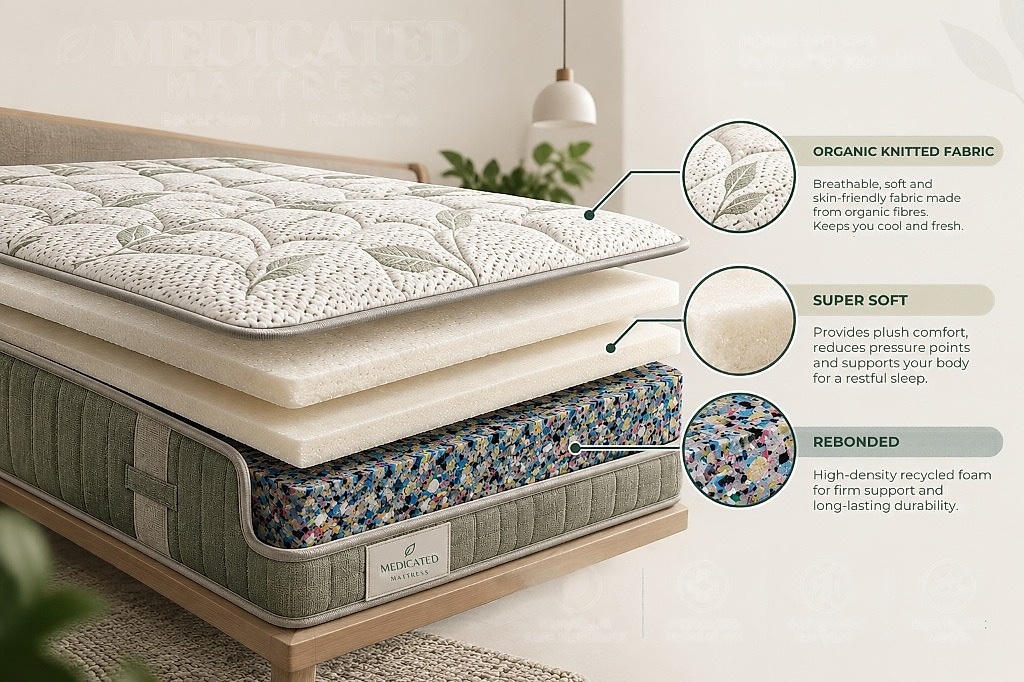
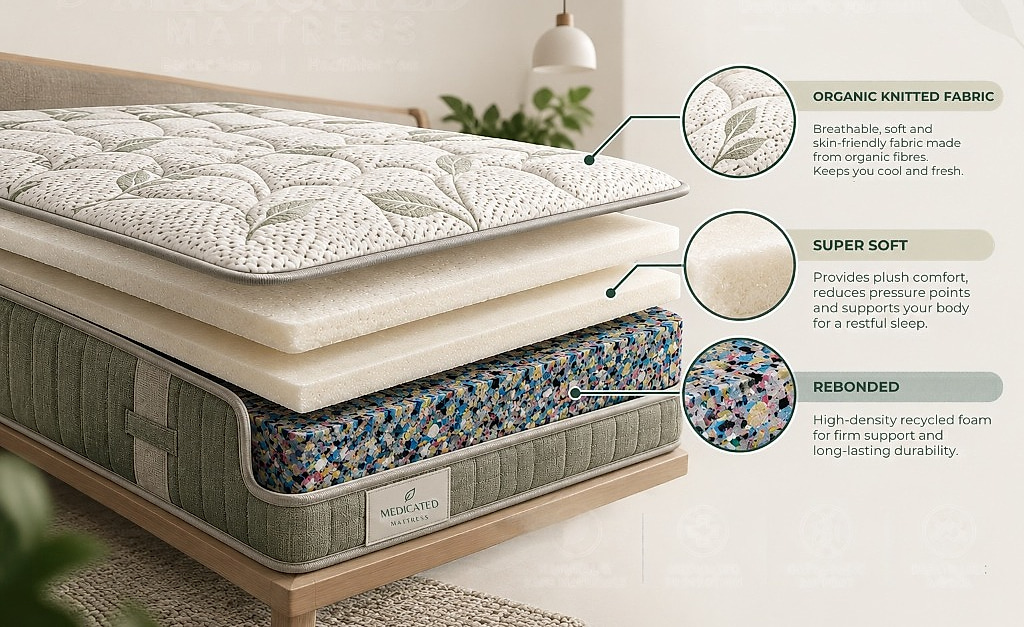
image moved bit left

diff --git a/components/ProductsSection.tsx b/components/ProductsSection.tsx
@@ -61,6 +61,7 @@ export interface Product {
   warranty?: string
   warrantyBadgeColor: string
   image: string
+  imagePosition?: string
   basePrice: number
   sizes: string[]
   styles: StyleOption[]
@@ -81,6 +82,7 @@ export const products: Product[] = [
     warranty: '7 Years Warranty',
     warrantyBadgeColor: '#C2410C',
     image: '/images/products/medicated_latex.jpg',
+    imagePosition: 'right center',
     basePrice: 14800,
     sizes: ['72x36', '75x36', '72x48', '72x60', '75x60', '72x72', '75x72', '78x72'],
     styles: [
@@ -235,6 +237,7 @@ export const products: Product[] = [
     warranty: '5 Years Warranty',
     warrantyBadgeColor: '#E51D24',
     image: '/images/products/medicated.jpg',
+    imagePosition: 'right center',
     basePrice: 13235,
     sizes: ['72x36', '75x36', '72x48', '72x60', '75x60', '72x72', '75x72', '78x72'],
     styles: [
@@ -311,6 +314,7 @@ export const products: Product[] = [
     seriesBadge: 'Semi Medicated',
     warrantyBadgeColor: '#E51D24',
     image: '/images/products/semi_medicated.jpg',
+    imagePosition: 'right center',
     basePrice: 17906,
     sizes: ['72x36', '75x36', '72x48', '72x60', '75x60', '72x72', '75x72', '78x72'],
     styles: [
@@ -1465,6 +1469,7 @@ export default function ProductsSection() {
                       sizes="(max-width: 992px) 100vw, 560px"
                       style={{
                         objectFit: 'cover',
+                        objectPosition: selectedProduct.imagePosition,
                       }}
                       priority
                     />
@@ -1800,6 +1805,7 @@ function ProductCard({
           sizes="(max-width: 768px) 100vw, (max-width: 1200px) 50vw, 25vw"
           style={{
             objectFit: 'cover',
+            objectPosition: product.imagePosition,
             transition: 'transform 0.6s ease',
             transform: hovered ? 'scale(1.03)' : 'scale(1)',
           }}
